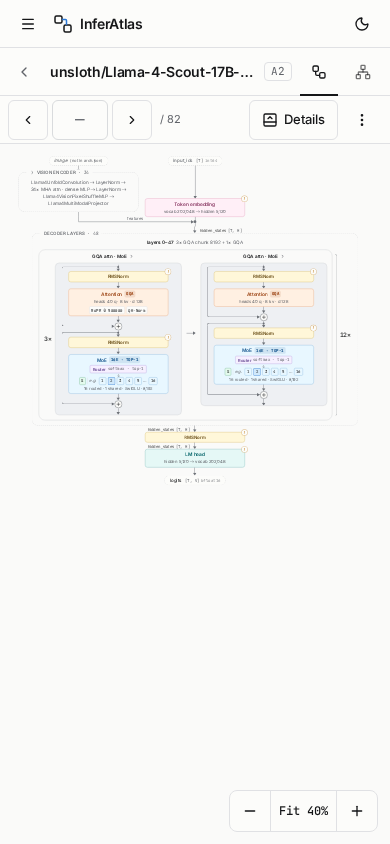
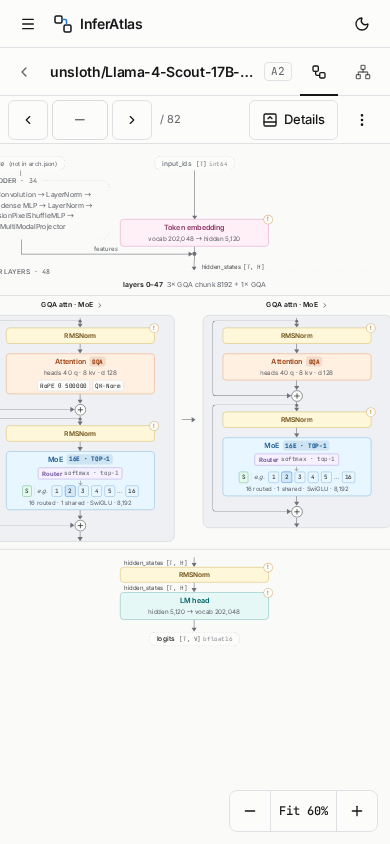
fix(web): leave desktop page zoom to the browser; passive one-finger pans; phone fit floor
- FitBox gets onZoom only in the touch layout, so Ctrl/⌘ + wheel and trackpad pinch over the
  desktop figure zoom the page as usual.
- The non-passive touchmove listener exists only during a two-finger gesture.
- Phone fit: width-fit but not below 0.6, top-aligned and centred on the spine.

Changed region(s): [[0.0, 0.1848, 0.9538, 0.6469], [0.3077, 0.6469, 0.7077, 0.7701], [0.0, 0.3081, 0.0615, 0.3389]]

diff --git a/web/src/components/arch/FitBox.tsx b/web/src/components/arch/FitBox.tsx
@@ -45,7 +45,10 @@ export function FitBox({
   children: ReactNode;
   className?: string;
   onScale?: (scale: number) => void;
-  /** Gesture zoom (pinch / Ctrl + wheel); the caller stores it and passes it back as `zoom`. */
+  /**
+   * Gesture zoom (pinch / Ctrl + wheel); the caller stores it and passes it back as `zoom`. Omit
+   * it to leave those gestures to the browser (desktop page zoom).
+   */
   onZoom?: (zoom: number) => void;
   "data-testid"?: string;
 }) {
@@ -116,8 +119,40 @@ export function FitBox({
 
   useLayoutEffect(() => onScale?.(state.scale), [onScale, state.scale]);
 
-  // Pinch (two fingers) and Ctrl/⌘ + wheel (trackpad pinch). Listeners are non-passive so the
-  // browser's page zoom never kicks in over the canvas.
+  // Touch fit (`width`) may be wider than the box (fit floor): keep it top-aligned and centred on
+  // the spine while the fitted size settles (fonts, data), until the user pans or zooms; the Fit
+  // button re-centres.
+  const moved = useRef(false);
+  useLayoutEffect(() => {
+    if (z !== "fit") moved.current = true;
+    else moved.current = false;
+  }, [z]);
+  // biome-ignore lint/correctness/useExhaustiveDependencies: re-run when the fitted size settles
+  useLayoutEffect(() => {
+    const o = outer.current;
+    if (!o || z !== "fit" || mode !== "width" || !state.w || moved.current) return;
+    o.scrollLeft = Math.max(0, (o.scrollWidth - o.clientWidth) / 2);
+    o.scrollTop = 0;
+  }, [z, mode, state.w, state.h, state.scale]);
+  useEffect(() => {
+    const o = outer.current;
+    if (!o) return;
+    const touched = () => {
+      moved.current = true;
+    };
+    o.addEventListener("pointerdown", touched, { passive: true });
+    o.addEventListener("touchstart", touched, { passive: true });
+    o.addEventListener("wheel", touched, { passive: true });
+    return () => {
+      o.removeEventListener("pointerdown", touched);
+      o.removeEventListener("touchstart", touched);
+      o.removeEventListener("wheel", touched);
+    };
+  }, []);
+
+  // Pinch (two fingers) and Ctrl/⌘ + wheel (trackpad pinch), only when the caller handles zoom
+  // (`onZoom`, touch layouts): then the gesture zooms the figure instead of the page. Without
+  // `onZoom` (desktop) nothing is prevented and the browser's own page zoom keeps working.
   const scaleRef = useRef(state.scale);
   scaleRef.current = state.scale;
   const onZoomRef = useRef(onZoom);
@@ -136,9 +171,12 @@ export function FitBox({
         { x: b.clientX - box.left, y: b.clientY - box.top },
       ];
     };
+    // touchmove is non-passive only while two fingers are down, so one-finger pans stay fully
+    // passive (native scrolling is never blocked waiting for script).
     const start = (e: TouchEvent) => {
       const p = pts(e);
       if (!p || !onZoomRef.current) return;
+      if (!pinch) o.addEventListener("touchmove", move, { passive: false });
       pinch = { dist: distance(p[0], p[1]), zoom: scaleRef.current };
     };
     const move = (e: TouchEvent) => {
@@ -151,7 +189,9 @@ export function FitBox({
       onZoomRef.current?.(next);
     };
     const end = (e: TouchEvent) => {
-      if (e.touches.length < 2) pinch = undefined;
+      if (e.touches.length >= 2 || !pinch) return;
+      pinch = undefined;
+      o.removeEventListener("touchmove", move);
     };
     const wheel = (e: WheelEvent) => {
       if (!(e.ctrlKey || e.metaKey) || !onZoomRef.current) return;
@@ -162,7 +202,6 @@ export function FitBox({
       onZoomRef.current(Math.round(next * 1000) / 1000);
     };
     o.addEventListener("touchstart", start, { passive: true });
-    o.addEventListener("touchmove", move, { passive: false });
     o.addEventListener("touchend", end, { passive: true });
     o.addEventListener("touchcancel", end, { passive: true });
     o.addEventListener("wheel", wheel, { passive: false });

diff --git a/web/tests/responsive.test.tsx b/web/tests/responsive.test.tsx
@@ -11,6 +11,7 @@ import {
   NARROW_QUERY,
   pinchZoom,
   stepZoom,
+  TOUCH_FIT_MIN,
   useMediaQuery,
   ZOOM_MAX,
   ZOOM_MIN,
@@ -19,8 +20,13 @@ import {
 
 describe("fitScale", () => {
   const base = { contentW: 1000, contentH: 2000, boxW: 400, boxH: 800 };
-  it("fits the width only on touch layouts (overview, scroll down)", () => {
-    expect(fitScale({ ...base, mode: "width" })).toBe(0.4);
+  it("fits the width on touch layouts, but not below the readable touch floor", () => {
+    expect(fitScale({ contentW: 500, contentH: 2000, boxW: 400, boxH: 800, mode: "width" })).toBe(
+      0.8,
+    );
+    // 0.4 would fit the width but wastes the screen height: floor, scroll sideways instead.
+    expect(fitScale({ ...base, mode: "width" })).toBe(TOUCH_FIT_MIN);
+    expect(fitScale({ ...base, mode: "width", min: 0.3 })).toBe(0.4);
   });
   it("fits both axes on desktop but never below the readable floor", () => {
     expect(fitScale({ ...base, mode: "contain" })).toBe(DESKTOP_FIT_MIN);
@@ -33,10 +39,17 @@ describe("fitScale", () => {
     expect(fitScale({ contentW: 0, contentH: 0, boxW: 400, boxH: 400, mode: "width" })).toBe(1);
     expect(fitScale({ contentW: 100, contentH: 100, boxW: -5, boxH: 400, mode: "width" })).toBe(1);
   });
-  it("clamps very wide content to the zoom floor", () => {
-    expect(fitScale({ contentW: 10_000, contentH: 10, boxW: 300, boxH: 300, mode: "width" })).toBe(
-      ZOOM_MIN,
-    );
+  it("clamps very wide content to the floor", () => {
+    expect(
+      fitScale({
+        contentW: 10_000,
+        contentH: 10,
+        boxW: 300,
+        boxH: 300,
+        mode: "width",
+        min: ZOOM_MIN,
+      }),
+    ).toBe(ZOOM_MIN);
   });
 });
 

diff --git a/web/src/lib/responsive.ts b/web/src/lib/responsive.ts
@@ -43,6 +43,12 @@ export const useIsPhone = () => useMediaQuery(PHONE_QUERY);
 
 export const ZOOM_MIN = 0.2;
 export const ZOOM_MAX = 2.5;
+/**
+ * Touch fit floor: fitting a wide figure to a phone's width would shrink it to ~40% and leave
+ * most of the (tall) screen empty; below this the canvas scrolls sideways instead (centred on the
+ * spine, top-aligned) and the figure uses the height.
+ */
+export const TOUCH_FIT_MIN = 0.6;
 /** Desktop fit floor: the smallest figure text (10px) stays ≥ 9px effective. */
 export const DESKTOP_FIT_MIN = 0.9;
 
@@ -60,7 +66,8 @@ export interface FitInput {
   boxH: number;
   /**
    * `contain`: fit both axes, never below `min` (desktop: readable text, scroll beyond).
-   * `width`: fit the width only (touch: overview, scroll down, pinch to read).
+   * `width`: fit the width only, never below `min` (touch; default `TOUCH_FIT_MIN`): scroll
+   * down, and sideways for very wide figures; pinch to read.
    */
   mode: "contain" | "width";
   min?: number;
@@ -70,8 +77,8 @@ export interface FitInput {
 export function fitScale({ contentW, contentH, boxW, boxH, mode, min }: FitInput): number {
   if (!contentW || !contentH || boxW <= 0 || boxH <= 0) return 1;
   const sw = boxW / contentW;
-  const s = mode === "width" ? Math.min(1, sw) : Math.min(1, sw, boxH / contentH);
-  return round3(Math.max(min ?? (mode === "width" ? ZOOM_MIN : DESKTOP_FIT_MIN), s));
+  if (mode === "width") return round3(Math.min(1, Math.max(sw, min ?? TOUCH_FIT_MIN)));
+  return round3(Math.max(min ?? DESKTOP_FIT_MIN, Math.min(1, sw, boxH / contentH)));
 }
 
 /** Next zoom level for the +/− buttons (multiplicative steps, snapped to 100%). */

diff --git a/web/tests/arch-page.test.tsx b/web/tests/arch-page.test.tsx
@@ -487,6 +487,26 @@ describe("contract v1.4 in the figure", { timeout: 20_000 }, () => {
   });
 });
 
+describe("canvas gestures", { timeout: 20_000 }, () => {
+  const ctrlWheel = (el: HTMLElement) => {
+    const ev = new WheelEvent("wheel", {
+      ctrlKey: true,
+      deltaY: -100,
+      bubbles: true,
+      cancelable: true,
+    });
+    el.dispatchEvent(ev);
+    return ev.defaultPrevented;
+  };
+  it("desktop leaves Ctrl/⌘ + wheel to the browser (page zoom)", async () => {
+    await renderAt("/m/main-verified/A2/qwen3-30b-a3b");
+    await screen.findByTestId("arch-figure");
+    const canvas = screen.getByTestId("arch-canvas");
+    expect(ctrlWheel(canvas)).toBe(false);
+    expect(canvas).toHaveAttribute("data-zoom", "fit");
+  });
+});
+
 describe("narrow screens", { timeout: 20_000 }, () => {
   const original = window.matchMedia;
   const useWidth = (width: number) => {
@@ -551,6 +571,15 @@ describe("narrow screens", { timeout: 20_000 }, () => {
     expect(canvas.getAttribute("data-zoom")).not.toBe("fit");
     await userEvent.click(screen.getByTestId("zoom-fit"));
     expect(canvas).toHaveAttribute("data-zoom", "fit");
+    // Touch layouts own the zoom gesture: Ctrl + wheel / trackpad pinch zooms the figure.
+    const ev = new WheelEvent("wheel", {
+      ctrlKey: true,
+      deltaY: -100,
+      bubbles: true,
+      cancelable: true,
+    });
+    canvas.dispatchEvent(ev);
+    expect(ev.defaultPrevented).toBe(true);
   });
 
   it("phones: the graph tab explains it needs a wider screen", async () => {

diff --git a/web/e2e/mobile.spec.ts b/web/e2e/mobile.spec.ts
@@ -104,11 +104,22 @@ for (const model of MODELS) {
     await expect(fig).toBeVisible();
     await expect(page.locator('[data-layout="narrow"]')).toBeVisible();
     await noOverflow(page, model);
-    // Fit to width by default: the figure's width is inside the canvas.
+    // Fit to width by default, but never below the readable touch floor (0.6): wide figures
+    // scroll sideways inside the canvas (never the page), start top-aligned and centred.
     const canvas = await page.getByTestId("arch-canvas").boundingBox();
-    await expect
-      .poll(async () => (await fig.boundingBox())?.width ?? 1e9)
-      .toBeLessThanOrEqual((canvas?.width ?? 0) + 1);
+    const start = await scaleOf(page);
+    const box = await fig.boundingBox();
+    const fitsWidth = (box?.width ?? 1e9) <= (canvas?.width ?? 0) + 1;
+    expect(fitsWidth || start === 0.6, `fit ${start}`).toBe(true);
+    expect(start).toBeGreaterThanOrEqual(0.6);
+    expect((box?.y ?? 0) - (canvas?.y ?? 0)).toBeLessThan(40);
+    if (!fitsWidth) {
+      const s = await page.getByTestId("arch-canvas").evaluate((el) => ({
+        left: el.scrollLeft,
+        max: el.scrollWidth - el.clientWidth,
+      }));
+      expect(Math.abs(s.left - s.max / 2)).toBeLessThanOrEqual(2);
+    }
     // Thumb-size controls.
     for (const id of ["zoom-in", "zoom-out", "zoom-fit", "open-details", "arch-menu"])
       await tappable(page.getByTestId(id), id);

diff --git a/web/src/pages/model/ArchitectureView.tsx b/web/src/pages/model/ArchitectureView.tsx
@@ -433,7 +433,6 @@ export function ArchitectureView({ arch: raw }: { arch: Arch }) {
         <FitBox
           zoom={zoom}
           onScale={setScale}
-          onZoom={setZoom}
           className="flex-1 bg-canvas"
           data-testid="arch-canvas"
         >

diff --git a/docs/progress/U4.md b/docs/progress/U4.md
@@ -97,7 +97,20 @@ llama-4-scout-encoder,sheet}-light.png`, `{390x844,768x1024}-{home,deepseek-v4-f
 `desktop-{1440x900,1280x800}-{home,deepseek-v4-flash,qwen3-next-80b-a3b,llama-4-scout}.png`.
 
 ## Notes / follow-ups
-- Fit-to-width on phones is an overview (DeepSeek-V4 ≈ 40%): figure text is read by pinching or
-  in the sheet, which shows every tensor and shape at ≥ 10.5px.
+- Phone fit is width-fit with a readable floor of 0.6 (`TOUCH_FIT_MIN`): DeepSeek-V4 and
+  Qwen3-Next open at 60%, top-aligned and centred on the spine, scrolling sideways inside the
+  canvas (never the page); the sheet shows every tensor and shape at ≥ 10.5px.
 - Mobile projects use Chromium device emulation (WebKit not required by the suite).
 - Hub/offline pages only got the overflow check; their layout is otherwise unchanged.
+
+## Review round 1
+- Desktop no longer captures Ctrl/⌘ + wheel / trackpad pinch: `onZoom` is passed to `FitBox`
+  only in the touch layout, so the browser's page zoom works over the desktop figure (page test
+  asserts the wheel event is not prevented on desktop and is on touch).
+- The non-passive `touchmove` listener is added on a two-finger `touchstart` and removed on
+  `touchend`/`touchcancel`; one-finger pans stay fully passive.
+- Phone initial zoom: fit width but not below 0.6, top-aligned and centred (re-centred while the
+  size settles until the user pans/zooms; Fit re-centres). Unit tests and `mobile.spec` updated;
+  u4 screenshots regenerated (390×844 DeepSeek-V4 / Qwen3-Next at 60%).
+- Gates: lint clean; vitest 145 (209 with real data); e2e:demo 60 passed / 17 skipped;
+  release-u4 7 passed.
